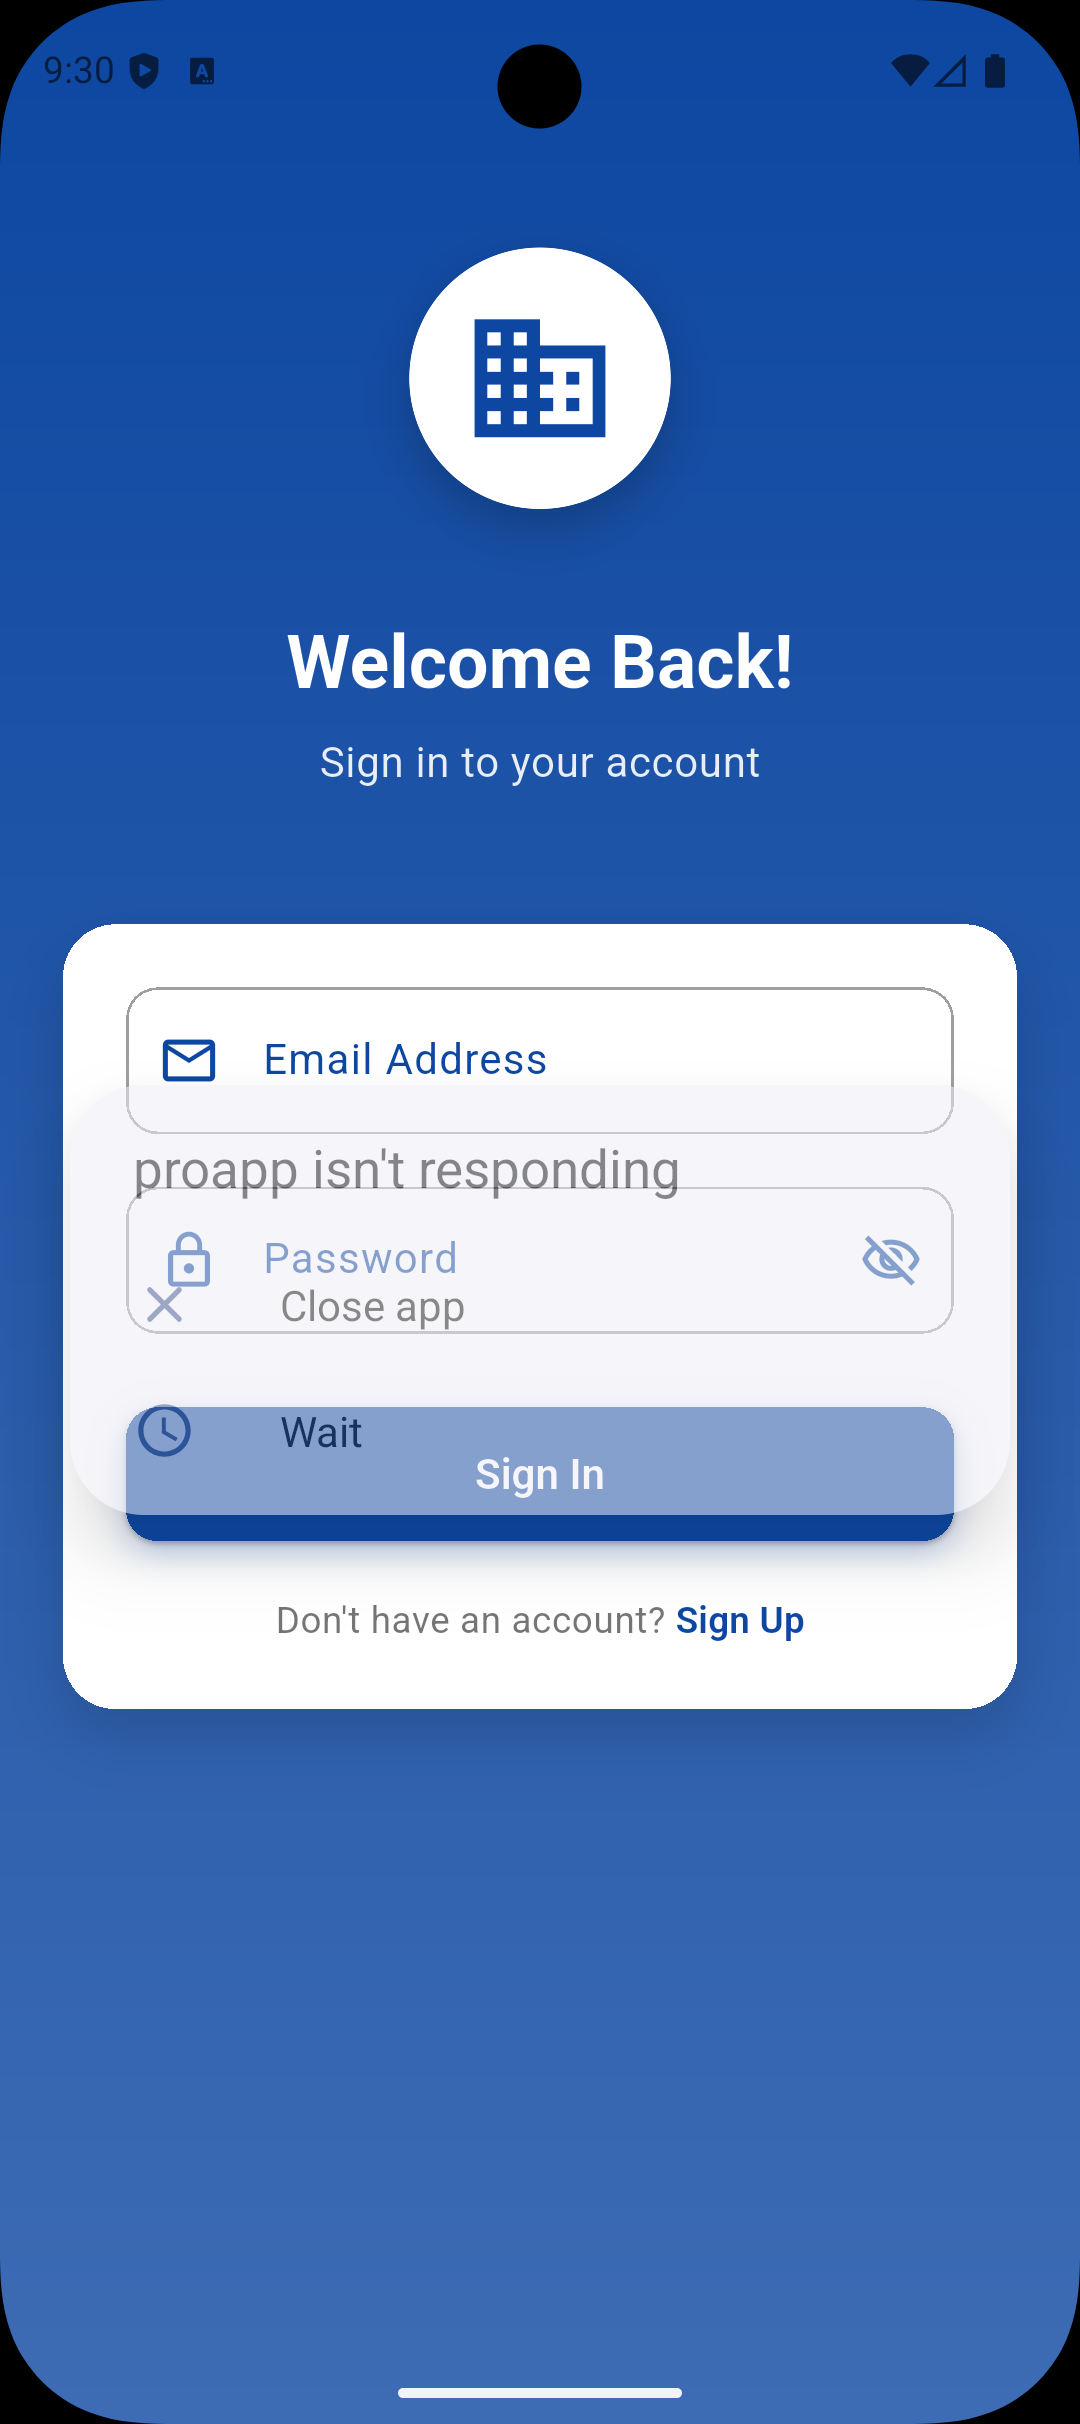
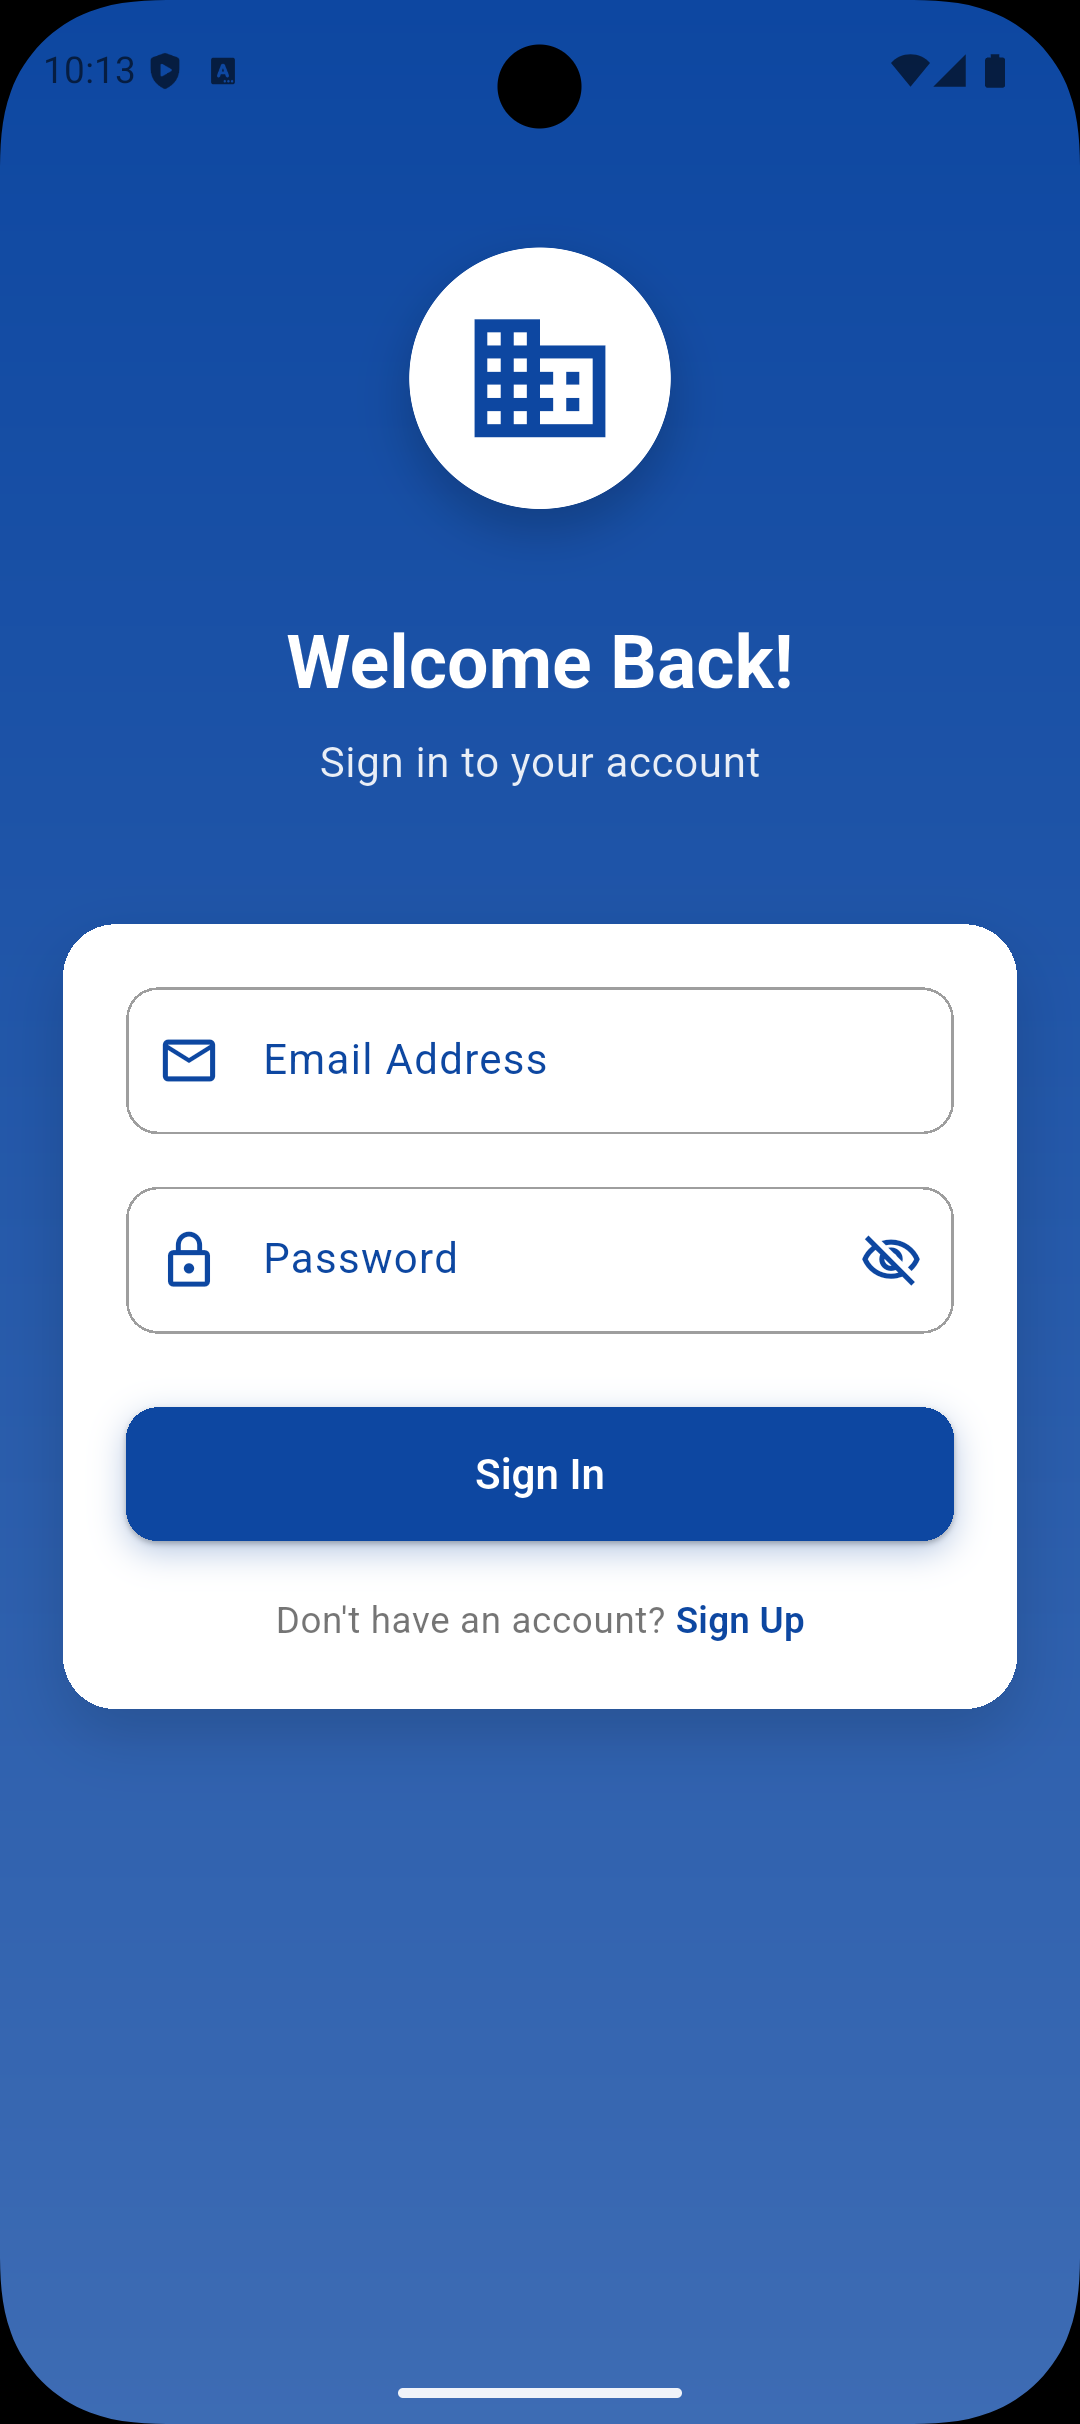
Changed login image

diff --git a/README.md b/README.md
@@ -20,22 +20,22 @@ ProApp is a full-featured project management solution built with Flutter, featur
 ## 📸 App Screenshots
 
 ### Startup Screen
-<img src="images/start.png" alt="Startup" width="300"/>
+<img src="images/start.png" alt="Startup" width="250"/>
 
 ### Login Screen
-<img src="images/login.png" alt="Login" width="300"/>
+<img src="images/login.png" alt="Login" width="250"/>
 
 ### Dashboard
-<img src="images/dashboard.png" alt="Dashboard" width="300"/>
+<img src="images/dashboard.png" alt="Dashboard" width="250"/>
 
 ### Projects View
-<img src="images/projects.png" alt="Projects" width="300"/>
+<img src="images/projects.png" alt="Projects" width="250"/>
 
 ### Project Details
-<img src="images/pro_detail.png" alt="Project Detail" width="300"/>
+<img src="images/pro_detail.png" alt="Project Detail" width="250"/>
 
 ### Tasks Management
-<img src="images/tasks.png" alt="Tasks" width="300"/>
+<img src="images/tasks.png" alt="Tasks" width="250"/>
 
 
 ## 🏗️ Architecture & Project Structure